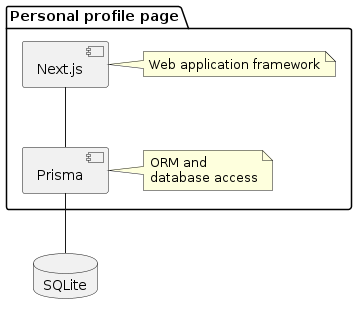
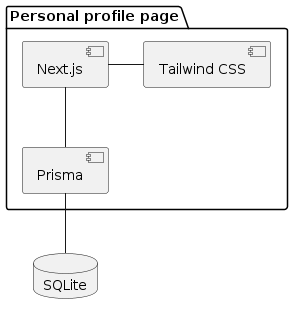
updated tool stack

diff --git a/docs/README.md b/docs/README.md
@@ -14,5 +14,6 @@ The following tools are used in the project.
 
 - [Next.js](https://nextjs.org/)
 - [Prisma](https://www.prisma.io/)
+- [Tailwind CSS](https://tailwindcss.com/)
 
 ![Tool stack](/docs/uml/out/tool-stack.png "Tool stack")
